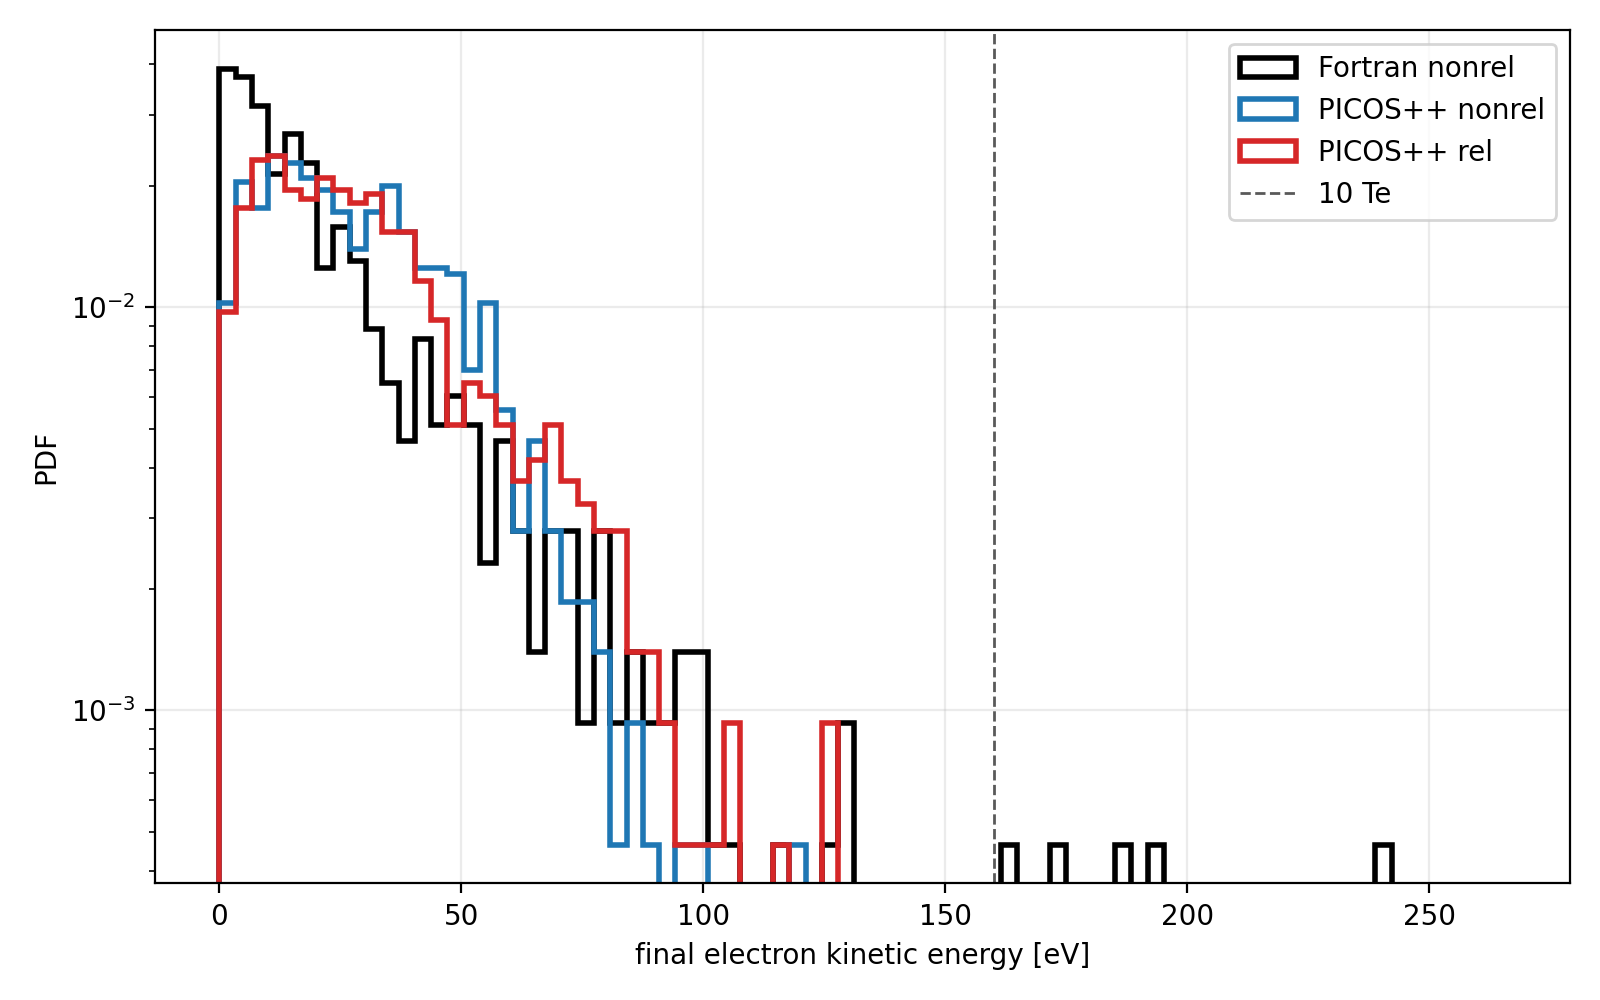
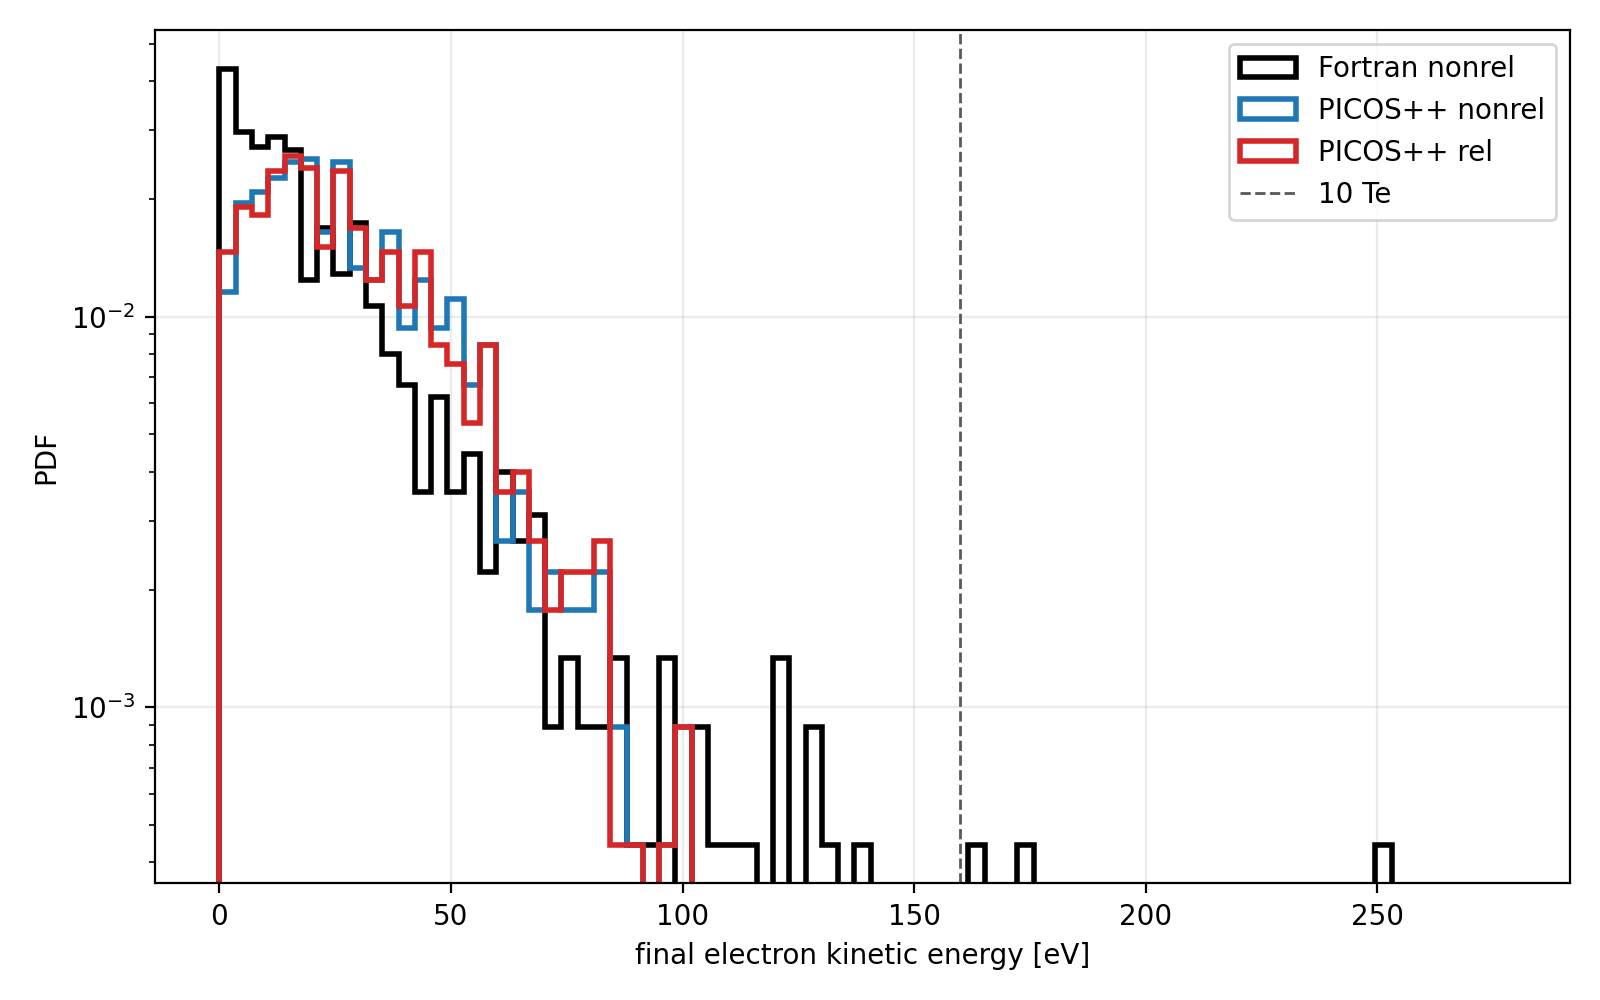
Fix ECH validation deck and OpenMP guards

diff --git a/scripts/compare_fortran_picos_short.py b/scripts/compare_fortran_picos_short.py
@@ -300,8 +300,8 @@ def clone_local_picos_deck(args: argparse.Namespace, tag: str, relativistic: int
         raise FileNotFoundError(f"Local fallback source deck {source_tag} is missing")
 
     source_values = parse_picos_input(source_input)
-    source_simulation_time = float(source_values["simulationTime"])
-    simulation_time = source_simulation_time * (args.physical_time / 2.0e-10)
+    source_reference_time = float(rf_value(source_values, "electron", "t_OFF"))
+    simulation_time = source_reference_time * (args.physical_time / 2.0e-10)
 
     b_file = f"{tag}_B_norm.txt"
     one_file = f"{tag}_one.txt"

diff --git a/picosFILES/src/rfOperator.cpp b/picosFILES/src/rfOperator.cpp
@@ -417,7 +417,13 @@ void RF_Operator_TYP::ApplyRfOperator_AllSpecies( params_TYP * params, CS_TYP * 
         double E_rf = rf.eFieldAmplitude;
         if (rf.eFieldMode == RF_EFIELD_POWER_BALANCE)
         {
-            E_rf = sqrt(rf.Prf/rf.uE3);
+            if ((rf.uE3 <= double_zero) || !std::isfinite(rf.uE3))
+            {
+                rf.Erf = 0.0;
+                params->RF.Erf = 0.0;
+                continue;
+            }
+            E_rf = sqrt(std::max(0.0, rf.Prf/rf.uE3));
         }
         rf.Erf = E_rf;
         params->RF.Erf = E_rf;

diff --git a/picosFILES/src/particleBC.cpp b/picosFILES/src/particleBC.cpp
@@ -268,7 +268,7 @@ void particleBC_TYP::applyParticleReinjection(const params_TYP &params, const CS
                 uniform_one &rand_one = randoms_one[picos::random::thread()];
 
                 const int iie=ion.NSP;
-                #pragma omp parallel for
+                #pragma omp for
                 for(int ii=0; ii<iie; ii++)
                 {
                     if ( ion.f1(ii) == 1 || ion.f2(ii) == 1 )

diff --git a/picosFILES/src/PIC.cpp b/picosFILES/src/PIC.cpp
@@ -855,8 +855,8 @@ void PIC_TYP::eim(const params_TYP &params, CS_TYP &CS, fields_TYP &fields, ionS
 
 		// Assemble moments:
 		// =================
-                const int iie = ION.NSP;
-        #pragma omp parallel for
+		const int iie = ION.NSP;
+		#pragma omp for
 		for(int ii=0; ii<iie; ii++)
 		{
 			// Nearest grid point:

diff --git a/validation/fortran_picos_compare/fortran_picos_short_compare.md b/validation/fortran_picos_compare/fortran_picos_short_compare.md
@@ -5,12 +5,12 @@ PICOS++ tags: `xray_case8_fortran_compare_nonrel`, `xray_case8_fortran_compare_r
 
 | run | N | mean E [eV] | P95 [eV] | P99 [eV] | max E [eV] | mean z [m] | mean pitch | max v/c |
 |---|---:|---:|---:|---:|---:|---:|---:|---:|
-| fortran_nonrel | 640 | 24.27 | 77.3 | 128 | 241.6 | 0.06218 | -0.001925 | 0.03075 |
-| picos_nonrel | 640 | 29.29 | 64.74 | 81.89 | 119.6 | -1.523 | -0.006839 | 0.02164 |
-| picos_rel | 640 | 30.66 | 74.63 | 97.66 | 126.3 | -1.374 | -0.002256 | 0.02223 |
+| fortran_nonrel | 640 | 23.93 | 70.22 | 125.5 | 252.5 | -0.01799 | -0.02093 | 0.03144 |
+| picos_nonrel | 640 | 28.42 | 64.08 | 83.2 | 101.4 | -1.569 | -0.02734 | 0.01992 |
+| picos_rel | 640 | 28.42 | 66.12 | 83.44 | 101.4 | -1.538 | -0.02043 | 0.01992 |
 
-PICOS++ nonrel mean-energy delta from Fortran: `5.01533 eV`.
-PICOS++ relativistic mean-energy delta from Fortran: `6.38825 eV`.
+PICOS++ nonrel mean-energy delta from Fortran: `4.48704 eV`.
+PICOS++ relativistic mean-energy delta from Fortran: `4.48878 eV`.
 
 Validation plots:
 
@@ -23,7 +23,7 @@ Validation plots:
 
 Interpretation:
 
-- PICOS++ nonrel mean energy is `5.01533 eV` higher than Fortran.
-- PICOS++ nonrel P99 energy is `-46.0827 eV` different from Fortran.
-- Fortran produces a hotter extreme tail here: max energy `241.598 eV` versus PICOS++ nonrel `119.612 eV`.
+- PICOS++ nonrel mean energy is `4.48704 eV` higher than Fortran.
+- PICOS++ nonrel P99 energy is `-42.3269 eV` different from Fortran.
+- Fortran produces a hotter extreme tail here: max energy `252.518 eV` versus PICOS++ nonrel `101.353 eV`.
 - The comparison is stochastic and not particle-by-particle matched; it validates ensemble behavior of the ECH operator.
